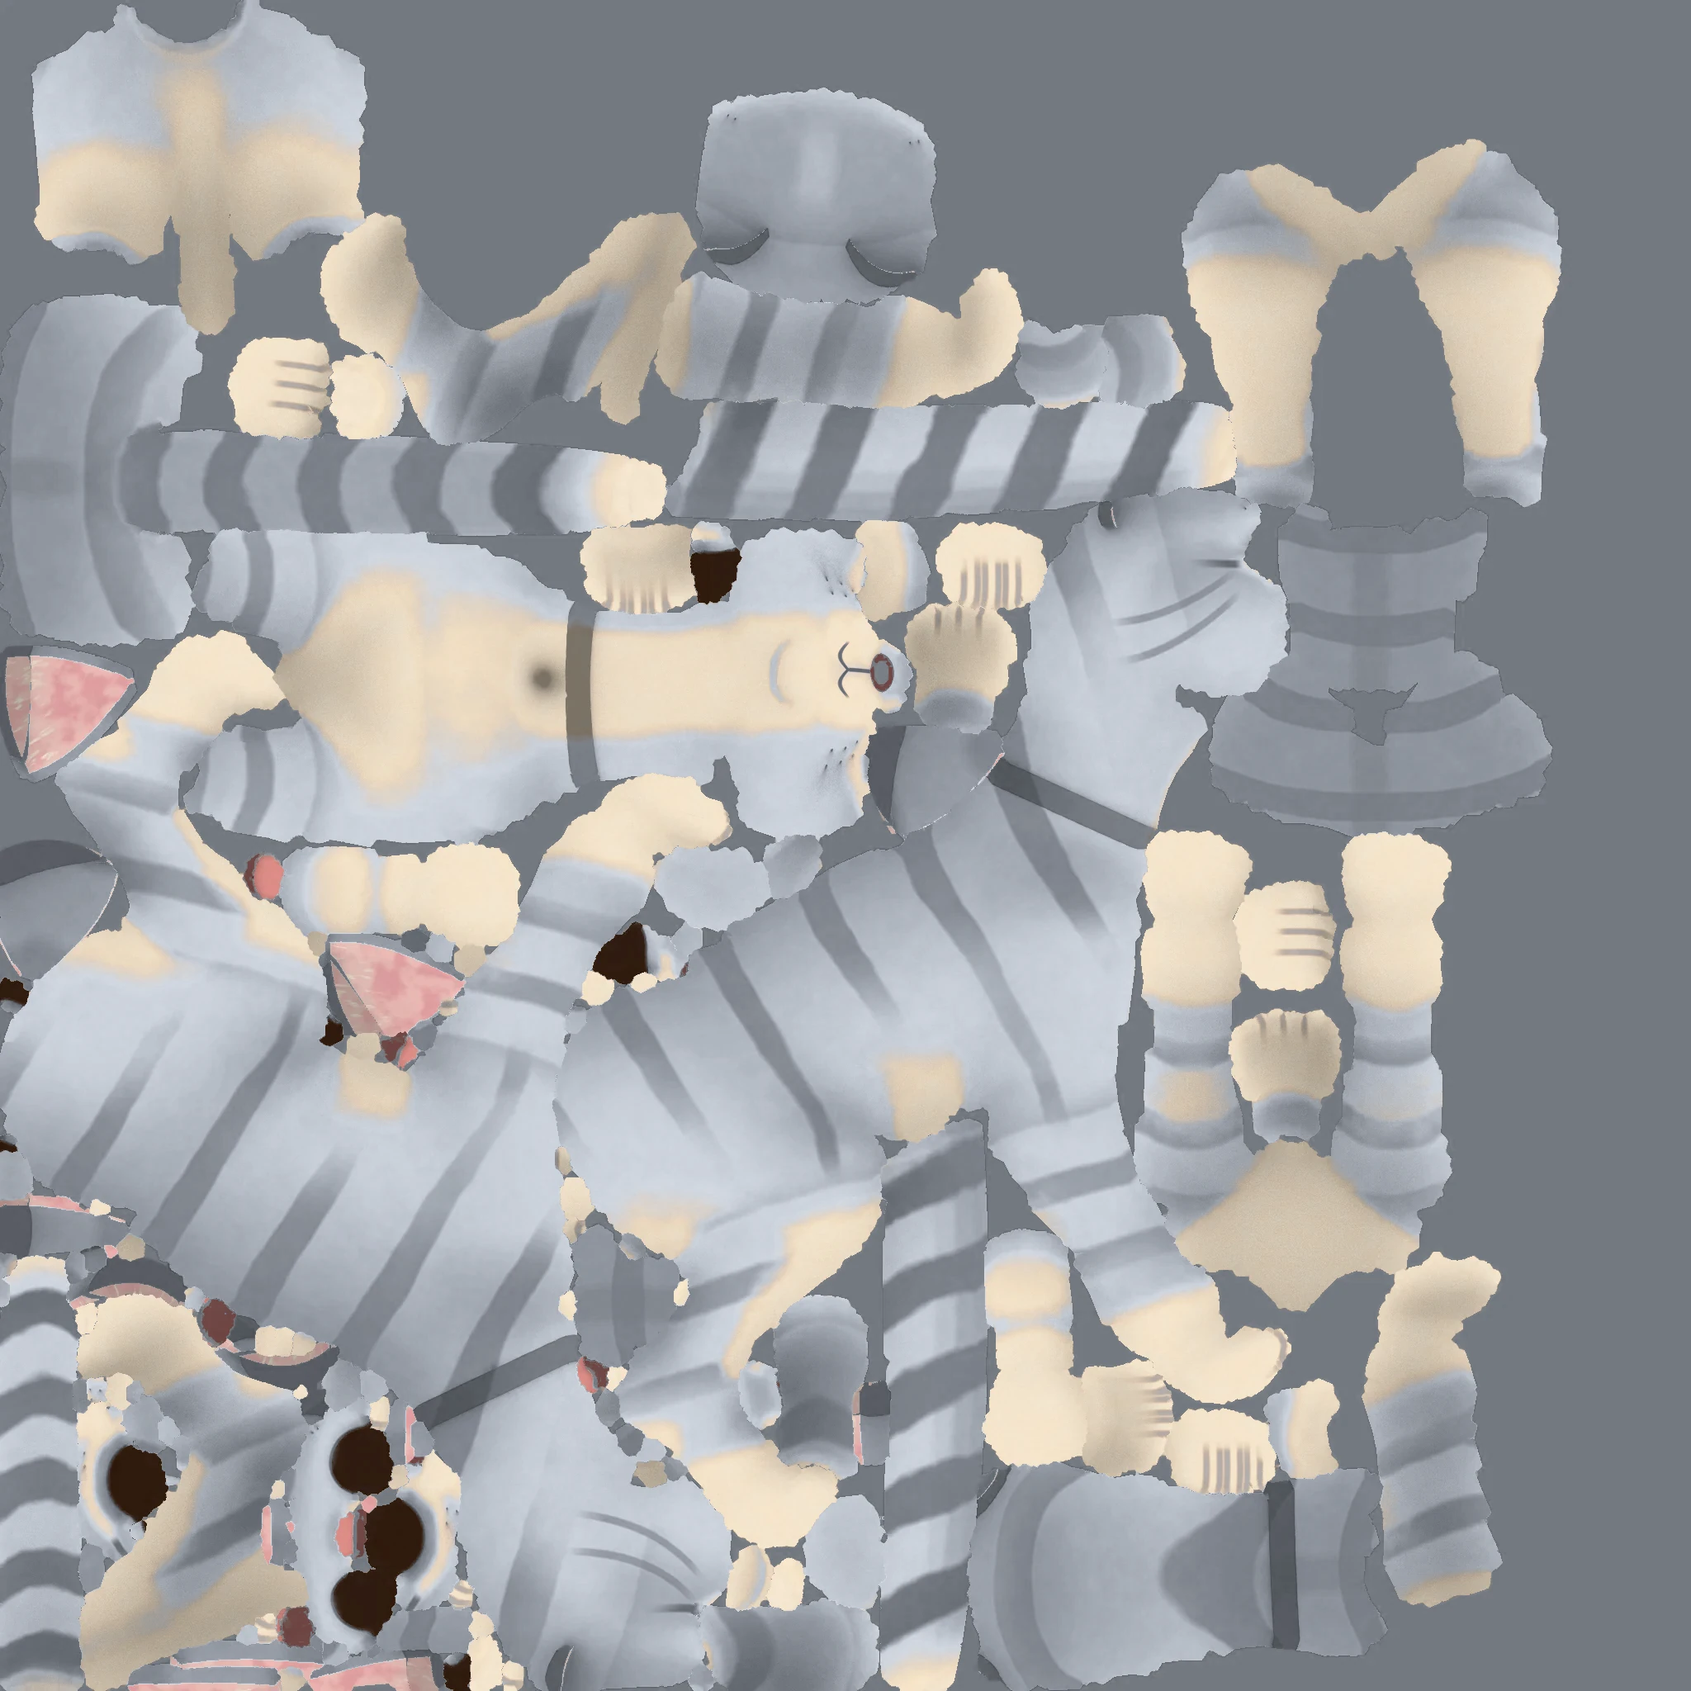
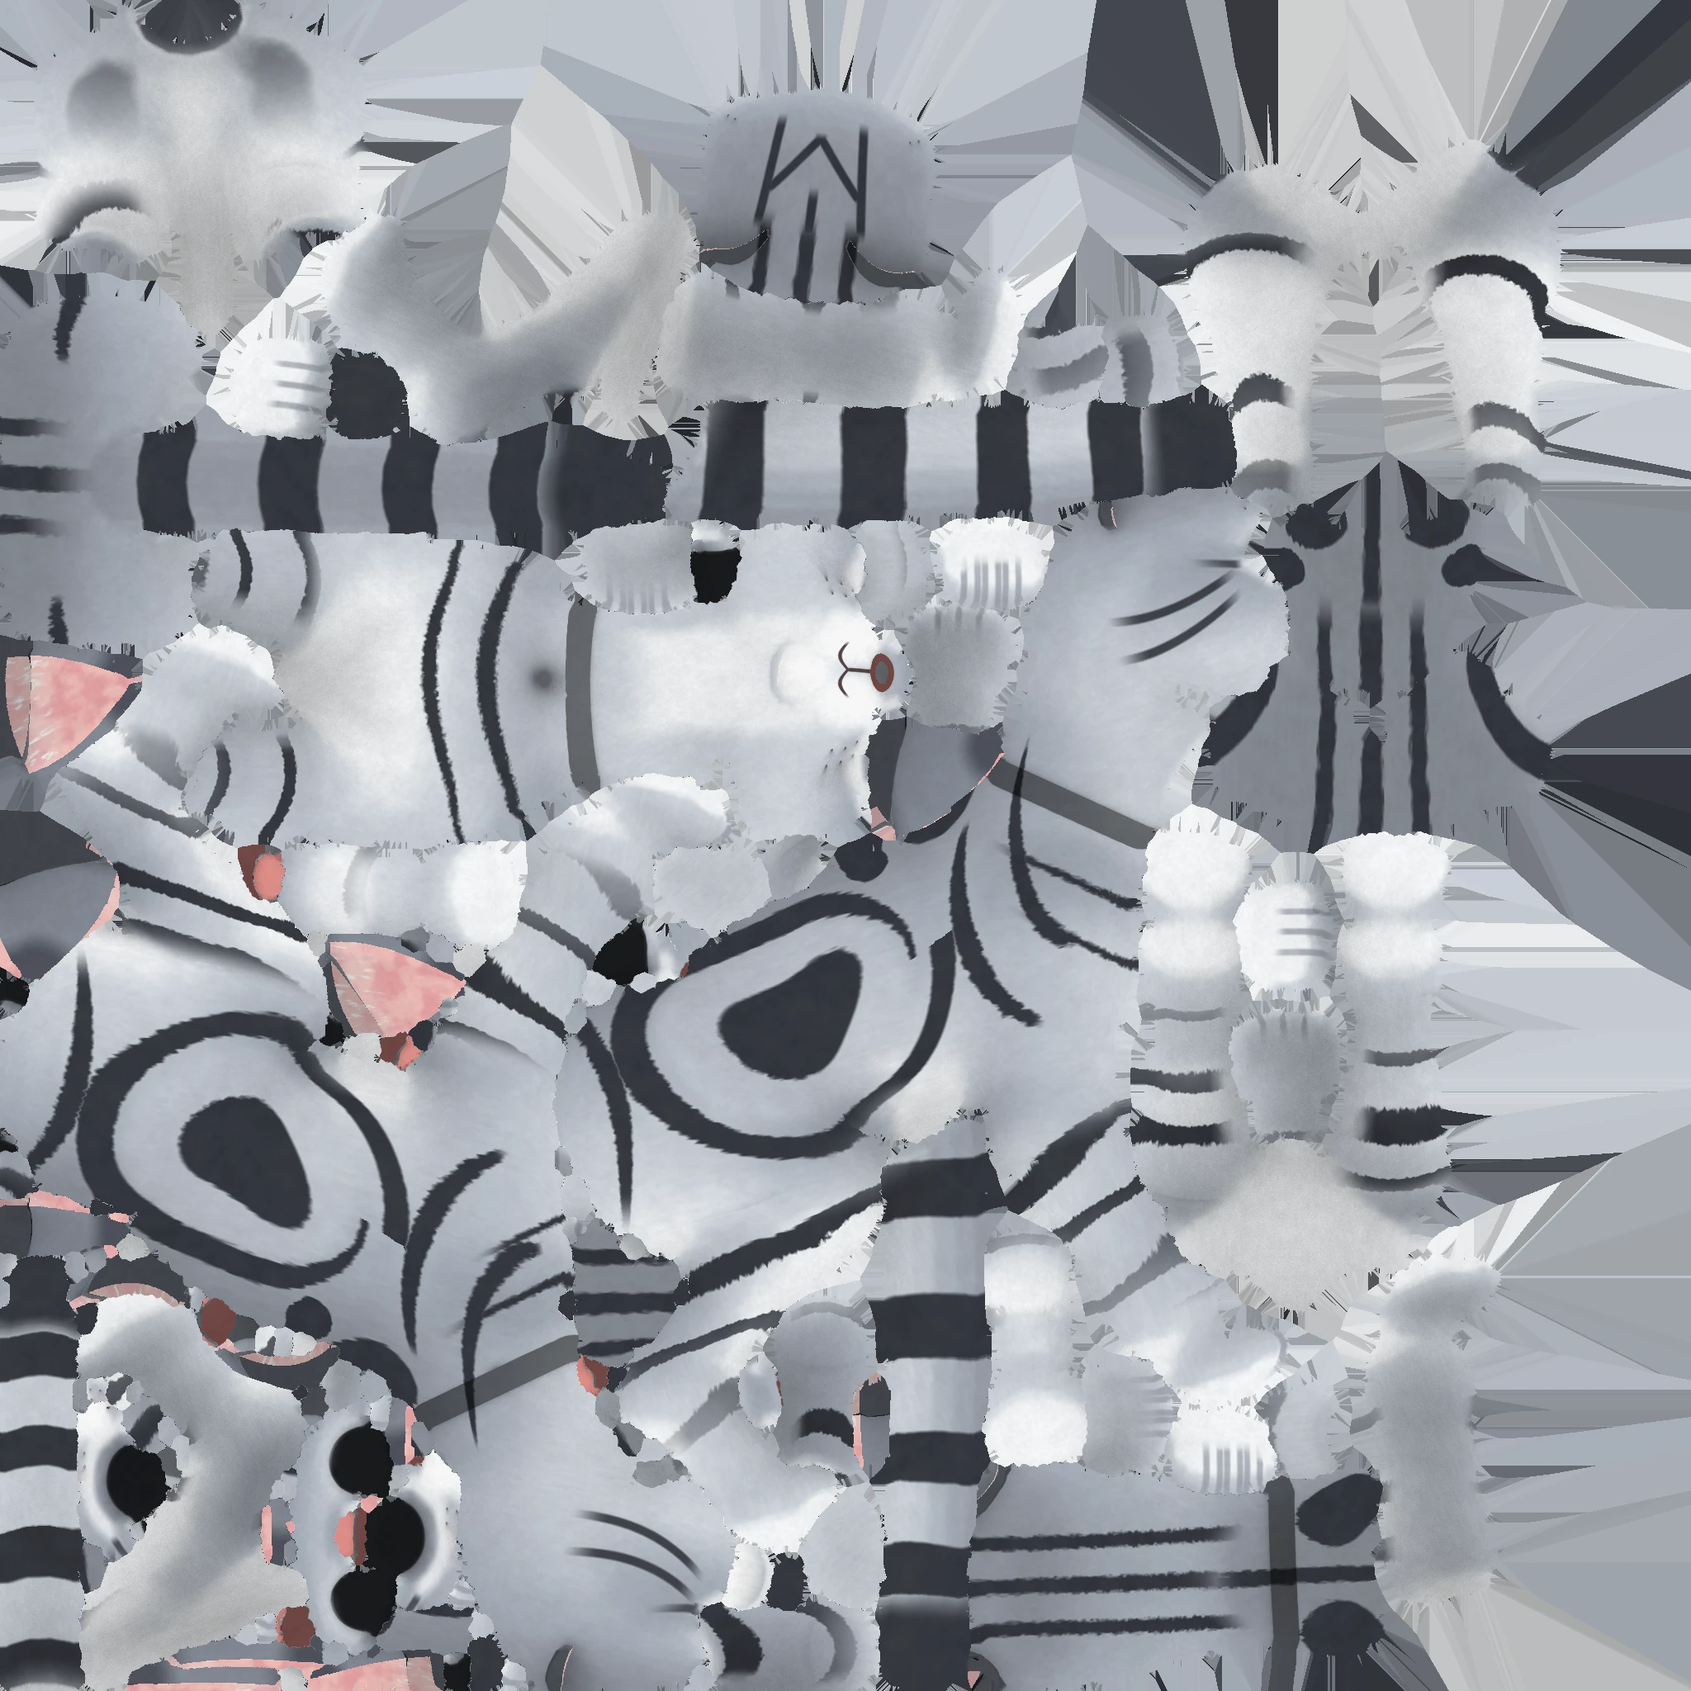
Day 6

diff --git a/days/06/index.html b/days/06/index.html
@@ -2,7 +2,7 @@
 <html lang="en">
 <head>
   <meta charset="utf-8">
-  <meta name="build" content="206a7a8c0657">
+  <meta name="build" content="772d9102a0be">
   <meta name="viewport" content="width=device-width, initial-scale=1, viewport-fit=cover">
   <title>Glikdev – Day 6: a friend for the kitty</title>
   <meta name="description" content="A game built one YouTube comment at a time. Day 6: the kitty has a friend, a cream kitten that follows her about, rubs cheeks with her, eats from her bowl and naps beside her. Pet it, name it. Comment what Day 7 should add.">
@@ -17,50 +17,50 @@
   <meta property="og:image:height" content="900">
   <meta property="og:image:alt" content="A small cream kitten rubs its cheek against a big ginger tabby kitty, who purrs with her eyes shut">
   <meta name="twitter:card" content="summary_large_image">
-  <link rel="icon" href="logo.svg?v=206a7a8c0657" type="image/svg+xml">
+  <link rel="icon" href="logo.svg?v=772d9102a0be" type="image/svg+xml">
   <link rel="preload" href="fonts/fredoka-700.woff2" as="font" type="font/woff2" crossorigin>
   <link rel="preload" href="fonts/rubik-latin.woff2" as="font" type="font/woff2" crossorigin>
   <!-- Cache safety: every module is loaded with the same ?v= build stamp (tools/deploy.mjs rewrites
-       "?v=206a7a8c0657" everywhere in this file). New modules must be added to this import map. -->
+       "?v=772d9102a0be" everywhere in this file). New modules must be added to this import map. -->
   <script type="importmap">
   {
     "imports": {
-      "./src/main.js": "./src/main.js?v=206a7a8c0657",
-      "./src/daylog.js": "./src/daylog.js?v=206a7a8c0657",
-      "./src/demo.js": "./src/demo.js?v=206a7a8c0657",
-      "./src/world.js": "./src/world.js?v=206a7a8c0657",
-      "./src/controls.js": "./src/controls.js?v=206a7a8c0657",
-      "./src/kitty.js": "./src/kitty.js?v=206a7a8c0657",
-      "./src/kittybrain.js": "./src/kittybrain.js?v=206a7a8c0657",
-      "./src/emotes.js": "./src/emotes.js?v=206a7a8c0657",
-      "./src/kittymind.js": "./src/kittymind.js?v=206a7a8c0657",
-      "./src/kittysound.js": "./src/kittysound.js?v=206a7a8c0657",
-      "./src/kittyaudio.js": "./src/kittyaudio.js?v=206a7a8c0657",
-      "./src/tokens.js": "./src/tokens.js?v=206a7a8c0657",
-      "./src/player.js": "./src/player.js?v=206a7a8c0657",
-      "./src/town.js": "./src/town.js?v=206a7a8c0657",
-      "./src/outfits.js": "./src/outfits.js?v=206a7a8c0657",
-      "./src/wand.js": "./src/wand.js?v=206a7a8c0657",
-      "./src/atombox.js": "./src/atombox.js?v=206a7a8c0657",
-      "./src/blast.js": "./src/blast.js?v=206a7a8c0657",
-      "./src/friend.js": "./src/friend.js?v=206a7a8c0657",
-      "./src/friendbrain.js": "./src/friendbrain.js?v=206a7a8c0657",
-      "./src/fx.js": "./src/fx.js?v=206a7a8c0657",
-      "./vendor/three/three.module.js": "./vendor/three/three.module.js?v=206a7a8c0657",
-      "./vendor/three/addons/loaders/GLTFLoader.js": "./vendor/three/addons/loaders/GLTFLoader.js?v=206a7a8c0657",
-      "./vendor/three/addons/utils/BufferGeometryUtils.js": "./vendor/three/addons/utils/BufferGeometryUtils.js?v=206a7a8c0657"
+      "./src/main.js": "./src/main.js?v=772d9102a0be",
+      "./src/daylog.js": "./src/daylog.js?v=772d9102a0be",
+      "./src/demo.js": "./src/demo.js?v=772d9102a0be",
+      "./src/world.js": "./src/world.js?v=772d9102a0be",
+      "./src/controls.js": "./src/controls.js?v=772d9102a0be",
+      "./src/kitty.js": "./src/kitty.js?v=772d9102a0be",
+      "./src/kittybrain.js": "./src/kittybrain.js?v=772d9102a0be",
+      "./src/emotes.js": "./src/emotes.js?v=772d9102a0be",
+      "./src/kittymind.js": "./src/kittymind.js?v=772d9102a0be",
+      "./src/kittysound.js": "./src/kittysound.js?v=772d9102a0be",
+      "./src/kittyaudio.js": "./src/kittyaudio.js?v=772d9102a0be",
+      "./src/tokens.js": "./src/tokens.js?v=772d9102a0be",
+      "./src/player.js": "./src/player.js?v=772d9102a0be",
+      "./src/town.js": "./src/town.js?v=772d9102a0be",
+      "./src/outfits.js": "./src/outfits.js?v=772d9102a0be",
+      "./src/wand.js": "./src/wand.js?v=772d9102a0be",
+      "./src/atombox.js": "./src/atombox.js?v=772d9102a0be",
+      "./src/blast.js": "./src/blast.js?v=772d9102a0be",
+      "./src/friend.js": "./src/friend.js?v=772d9102a0be",
+      "./src/friendbrain.js": "./src/friendbrain.js?v=772d9102a0be",
+      "./src/fx.js": "./src/fx.js?v=772d9102a0be",
+      "./vendor/three/three.module.js": "./vendor/three/three.module.js?v=772d9102a0be",
+      "./vendor/three/addons/loaders/GLTFLoader.js": "./vendor/three/addons/loaders/GLTFLoader.js?v=772d9102a0be",
+      "./vendor/three/addons/utils/BufferGeometryUtils.js": "./vendor/three/addons/utils/BufferGeometryUtils.js?v=772d9102a0be"
     }
   }
   </script>
-  <link rel="modulepreload" href="vendor/three/three.module.js?v=206a7a8c0657">
-  <link rel="stylesheet" href="style.css?v=206a7a8c0657">
-  <script type="module" src="src/main.js?v=206a7a8c0657"></script>
+  <link rel="modulepreload" href="vendor/three/three.module.js?v=772d9102a0be">
+  <link rel="stylesheet" href="style.css?v=772d9102a0be">
+  <script type="module" src="src/main.js?v=772d9102a0be"></script>
 </head>
 <body>
   <!-- shown while the world loads (and as the backdrop when 3D is not available) -->
   <picture class="poster" id="poster">
-    <source media="(orientation: portrait)" srcset="poster-portrait.jpg?v=206a7a8c0657" width="780" height="1688">
-    <img src="poster.jpg?v=206a7a8c0657" alt="" width="1440" height="900" fetchpriority="high" decoding="async">
+    <source media="(orientation: portrait)" srcset="poster-portrait.jpg?v=772d9102a0be" width="780" height="1688">
+    <img src="poster.jpg?v=772d9102a0be" alt="" width="1440" height="900" fetchpriority="high" decoding="async">
   </picture>
 
   <canvas id="world" role="img" aria-label="A small person in an orange hoodie holds a fishing-rod cat toy; a blue plush fish with a pink bow hangs from its line, and a big ginger tabby kitty is running to pounce on it, on the grey baseplate"></canvas>
@@ -68,7 +68,7 @@
   <div class="ui" id="ui">
     <header class="title">
       <p class="eyebrow">
-        <img class="logo" src="logo.svg?v=206a7a8c0657" alt="Glikdev" width="36" height="36">
+        <img class="logo" src="logo.svg?v=772d9102a0be" alt="Glikdev" width="36" height="36">
         <span>A game built by YouTube comments</span>
       </p>
       <h1><span class="title-day">Day 6.</span> <span class="title-line">She has a friend now.</span></h1>
@@ -123,7 +123,7 @@
 
   <!-- Day 3: her friendship tokens; tap to open the wardrobe -->
   <button class="chip tokens" id="tokens" type="button" aria-haspopup="dialog" aria-controls="shop" aria-label="Friendship tokens: 0. Go to the shop" hidden>
-    <img id="tokens-icon" src="models/shop/token.webp?v=206a7a8c0657" alt="" width="34" height="34">
+    <img id="tokens-icon" src="models/shop/token.webp?v=772d9102a0be" alt="" width="34" height="34">
     <span class="tokens-count" id="tokens-count">0</span>
     <span class="tokens-loss" id="tokens-loss" aria-hidden="true" hidden></span>
   </button>
@@ -131,7 +131,7 @@
   <div class="boom" id="boom" aria-hidden="true" hidden><span id="boom-word">BOOM!</span></div>
   <!-- Day 5: atom tokens from the atom box; tap to see the fur skins they buy -->
   <button class="chip tokens atoms" id="atoms" type="button" aria-haspopup="dialog" aria-controls="catpick" aria-label="Atom tokens: 0. See the fur skins" hidden>
-    <img id="atoms-icon" src="models/shop/atomtoken.webp?v=206a7a8c0657" alt="" width="34" height="34">
+    <img id="atoms-icon" src="models/shop/atomtoken.webp?v=772d9102a0be" alt="" width="34" height="34">
     <span class="tokens-count" id="atoms-count">0</span>
   </button>
 
@@ -196,7 +196,7 @@
     <div class="namer-card">
       <div class="shop-head">
         <h2 id="shop-title">Kitty shop</h2>
-        <p class="shop-purse"><img src="models/shop/token.webp?v=206a7a8c0657" alt="" width="28" height="28"><span id="shop-have">0</span><span class="shop-purse-label"> tokens</span></p>
+        <p class="shop-purse"><img src="models/shop/token.webp?v=772d9102a0be" alt="" width="28" height="28"><span id="shop-have">0</span><span class="shop-purse-label"> tokens</span></p>
       </div>
       <p class="namer-sub">Welcome to the kitty shop! Pet her, feed her and play with her to earn friendship tokens. Make her angry and you lose some.</p>
       <div id="shop-items">

diff --git a/index.html b/index.html
@@ -16,50 +16,50 @@
   <meta property="og:image:height" content="900">
   <meta property="og:image:alt" content="A small cream kitten rubs its cheek against a big ginger tabby kitty, who purrs with her eyes shut">
   <meta name="twitter:card" content="summary_large_image">
-  <link rel="icon" href="logo.svg?v=206a7a8c0657" type="image/svg+xml">
+  <link rel="icon" href="logo.svg?v=772d9102a0be" type="image/svg+xml">
   <link rel="preload" href="fonts/fredoka-700.woff2" as="font" type="font/woff2" crossorigin>
   <link rel="preload" href="fonts/rubik-latin.woff2" as="font" type="font/woff2" crossorigin>
   <!-- Cache safety: every module is loaded with the same ?v= build stamp (tools/deploy.mjs rewrites
-       "?v=206a7a8c0657" everywhere in this file). New modules must be added to this import map. -->
+       "?v=772d9102a0be" everywhere in this file). New modules must be added to this import map. -->
   <script type="importmap">
   {
     "imports": {
-      "./src/main.js": "./src/main.js?v=206a7a8c0657",
-      "./src/daylog.js": "./src/daylog.js?v=206a7a8c0657",
-      "./src/demo.js": "./src/demo.js?v=206a7a8c0657",
-      "./src/world.js": "./src/world.js?v=206a7a8c0657",
-      "./src/controls.js": "./src/controls.js?v=206a7a8c0657",
-      "./src/kitty.js": "./src/kitty.js?v=206a7a8c0657",
-      "./src/kittybrain.js": "./src/kittybrain.js?v=206a7a8c0657",
-      "./src/emotes.js": "./src/emotes.js?v=206a7a8c0657",
-      "./src/kittymind.js": "./src/kittymind.js?v=206a7a8c0657",
-      "./src/kittysound.js": "./src/kittysound.js?v=206a7a8c0657",
-      "./src/kittyaudio.js": "./src/kittyaudio.js?v=206a7a8c0657",
-      "./src/tokens.js": "./src/tokens.js?v=206a7a8c0657",
-      "./src/player.js": "./src/player.js?v=206a7a8c0657",
-      "./src/town.js": "./src/town.js?v=206a7a8c0657",
-      "./src/outfits.js": "./src/outfits.js?v=206a7a8c0657",
-      "./src/wand.js": "./src/wand.js?v=206a7a8c0657",
-      "./src/atombox.js": "./src/atombox.js?v=206a7a8c0657",
-      "./src/blast.js": "./src/blast.js?v=206a7a8c0657",
-      "./src/friend.js": "./src/friend.js?v=206a7a8c0657",
-      "./src/friendbrain.js": "./src/friendbrain.js?v=206a7a8c0657",
-      "./src/fx.js": "./src/fx.js?v=206a7a8c0657",
-      "./vendor/three/three.module.js": "./vendor/three/three.module.js?v=206a7a8c0657",
-      "./vendor/three/addons/loaders/GLTFLoader.js": "./vendor/three/addons/loaders/GLTFLoader.js?v=206a7a8c0657",
-      "./vendor/three/addons/utils/BufferGeometryUtils.js": "./vendor/three/addons/utils/BufferGeometryUtils.js?v=206a7a8c0657"
+      "./src/main.js": "./src/main.js?v=772d9102a0be",
+      "./src/daylog.js": "./src/daylog.js?v=772d9102a0be",
+      "./src/demo.js": "./src/demo.js?v=772d9102a0be",
+      "./src/world.js": "./src/world.js?v=772d9102a0be",
+      "./src/controls.js": "./src/controls.js?v=772d9102a0be",
+      "./src/kitty.js": "./src/kitty.js?v=772d9102a0be",
+      "./src/kittybrain.js": "./src/kittybrain.js?v=772d9102a0be",
+      "./src/emotes.js": "./src/emotes.js?v=772d9102a0be",
+      "./src/kittymind.js": "./src/kittymind.js?v=772d9102a0be",
+      "./src/kittysound.js": "./src/kittysound.js?v=772d9102a0be",
+      "./src/kittyaudio.js": "./src/kittyaudio.js?v=772d9102a0be",
+      "./src/tokens.js": "./src/tokens.js?v=772d9102a0be",
+      "./src/player.js": "./src/player.js?v=772d9102a0be",
+      "./src/town.js": "./src/town.js?v=772d9102a0be",
+      "./src/outfits.js": "./src/outfits.js?v=772d9102a0be",
+      "./src/wand.js": "./src/wand.js?v=772d9102a0be",
+      "./src/atombox.js": "./src/atombox.js?v=772d9102a0be",
+      "./src/blast.js": "./src/blast.js?v=772d9102a0be",
+      "./src/friend.js": "./src/friend.js?v=772d9102a0be",
+      "./src/friendbrain.js": "./src/friendbrain.js?v=772d9102a0be",
+      "./src/fx.js": "./src/fx.js?v=772d9102a0be",
+      "./vendor/three/three.module.js": "./vendor/three/three.module.js?v=772d9102a0be",
+      "./vendor/three/addons/loaders/GLTFLoader.js": "./vendor/three/addons/loaders/GLTFLoader.js?v=772d9102a0be",
+      "./vendor/three/addons/utils/BufferGeometryUtils.js": "./vendor/three/addons/utils/BufferGeometryUtils.js?v=772d9102a0be"
     }
   }
   </script>
-  <link rel="modulepreload" href="vendor/three/three.module.js?v=206a7a8c0657">
-  <link rel="stylesheet" href="style.css?v=206a7a8c0657">
-  <script type="module" src="src/main.js?v=206a7a8c0657"></script>
+  <link rel="modulepreload" href="vendor/three/three.module.js?v=772d9102a0be">
+  <link rel="stylesheet" href="style.css?v=772d9102a0be">
+  <script type="module" src="src/main.js?v=772d9102a0be"></script>
 </head>
 <body>
   <!-- shown while the world loads (and as the backdrop when 3D is not available) -->
   <picture class="poster" id="poster">
-    <source media="(orientation: portrait)" srcset="poster-portrait.jpg?v=206a7a8c0657" width="780" height="1688">
-    <img src="poster.jpg?v=206a7a8c0657" alt="" width="1440" height="900" fetchpriority="high" decoding="async">
+    <source media="(orientation: portrait)" srcset="poster-portrait.jpg?v=772d9102a0be" width="780" height="1688">
+    <img src="poster.jpg?v=772d9102a0be" alt="" width="1440" height="900" fetchpriority="high" decoding="async">
   </picture>
 
   <canvas id="world" role="img" aria-label="A small person in an orange hoodie holds a fishing-rod cat toy; a blue plush fish with a pink bow hangs from its line, and a big ginger tabby kitty is running to pounce on it, on the grey baseplate"></canvas>
@@ -67,7 +67,7 @@
   <div class="ui" id="ui">
     <header class="title">
       <p class="eyebrow">
-        <img class="logo" src="logo.svg?v=206a7a8c0657" alt="Glikdev" width="36" height="36">
+        <img class="logo" src="logo.svg?v=772d9102a0be" alt="Glikdev" width="36" height="36">
         <span>A game built by YouTube comments</span>
       </p>
       <h1><span class="title-day">Day 6.</span> <span class="title-line">She has a friend now.</span></h1>
@@ -122,7 +122,7 @@
 
   <!-- Day 3: her friendship tokens; tap to open the wardrobe -->
   <button class="chip tokens" id="tokens" type="button" aria-haspopup="dialog" aria-controls="shop" aria-label="Friendship tokens: 0. Go to the shop" hidden>
-    <img id="tokens-icon" src="models/shop/token.webp?v=206a7a8c0657" alt="" width="34" height="34">
+    <img id="tokens-icon" src="models/shop/token.webp?v=772d9102a0be" alt="" width="34" height="34">
     <span class="tokens-count" id="tokens-count">0</span>
     <span class="tokens-loss" id="tokens-loss" aria-hidden="true" hidden></span>
   </button>
@@ -130,7 +130,7 @@
   <div class="boom" id="boom" aria-hidden="true" hidden><span id="boom-word">BOOM!</span></div>
   <!-- Day 5: atom tokens from the atom box; tap to see the fur skins they buy -->
   <button class="chip tokens atoms" id="atoms" type="button" aria-haspopup="dialog" aria-controls="catpick" aria-label="Atom tokens: 0. See the fur skins" hidden>
-    <img id="atoms-icon" src="models/shop/atomtoken.webp?v=206a7a8c0657" alt="" width="34" height="34">
+    <img id="atoms-icon" src="models/shop/atomtoken.webp?v=772d9102a0be" alt="" width="34" height="34">
     <span class="tokens-count" id="atoms-count">0</span>
   </button>
 
@@ -195,7 +195,7 @@
     <div class="namer-card">
       <div class="shop-head">
         <h2 id="shop-title">Kitty shop</h2>
-        <p class="shop-purse"><img src="models/shop/token.webp?v=206a7a8c0657" alt="" width="28" height="28"><span id="shop-have">0</span><span class="shop-purse-label"> tokens</span></p>
+        <p class="shop-purse"><img src="models/shop/token.webp?v=772d9102a0be" alt="" width="28" height="28"><span id="shop-have">0</span><span class="shop-purse-label"> tokens</span></p>
       </div>
       <p class="namer-sub">Welcome to the kitty shop! Pet her, feed her and play with her to earn friendship tokens. Make her angry and you lose some.</p>
       <div id="shop-items">

diff --git a/days/06/src/main.js b/days/06/src/main.js
@@ -126,7 +126,7 @@ const CATS = {
 const THUMB = { ginger: 'models/thumb_ginger.webp', realistic: 'models/thumb_realistic.webp', tabby: 'models/thumb_toti.webp' };
 // Day 5: fur skins, bought with atom tokens (tokens.js SKINS). Each is the ginger kitty in another coat
 // (models/skins/<id>.webp, art/day05/make_skins.py, which also prints the eyelid colour that goes with it).
-const SKIN_LID = { silver: '#9ea4ad', tuxedo: '#1f1f25', atomic: '#83b255' };
+const SKIN_LID = { silver: '#bdc3cb', tuxedo: '#191b22', atomic: '#98d2b2' };   // (Day 6: the coats repainted by art/day06/build_skins.py)
 for (const k of SKINS) {
   CATS[k.id] = { ...CATS.ginger, label: k.name, base: 'ginger', skin: k.id, lid: SKIN_LID[k.id] };
   THUMB[k.id] = `models/skins/thumb_${k.id}.webp`;
